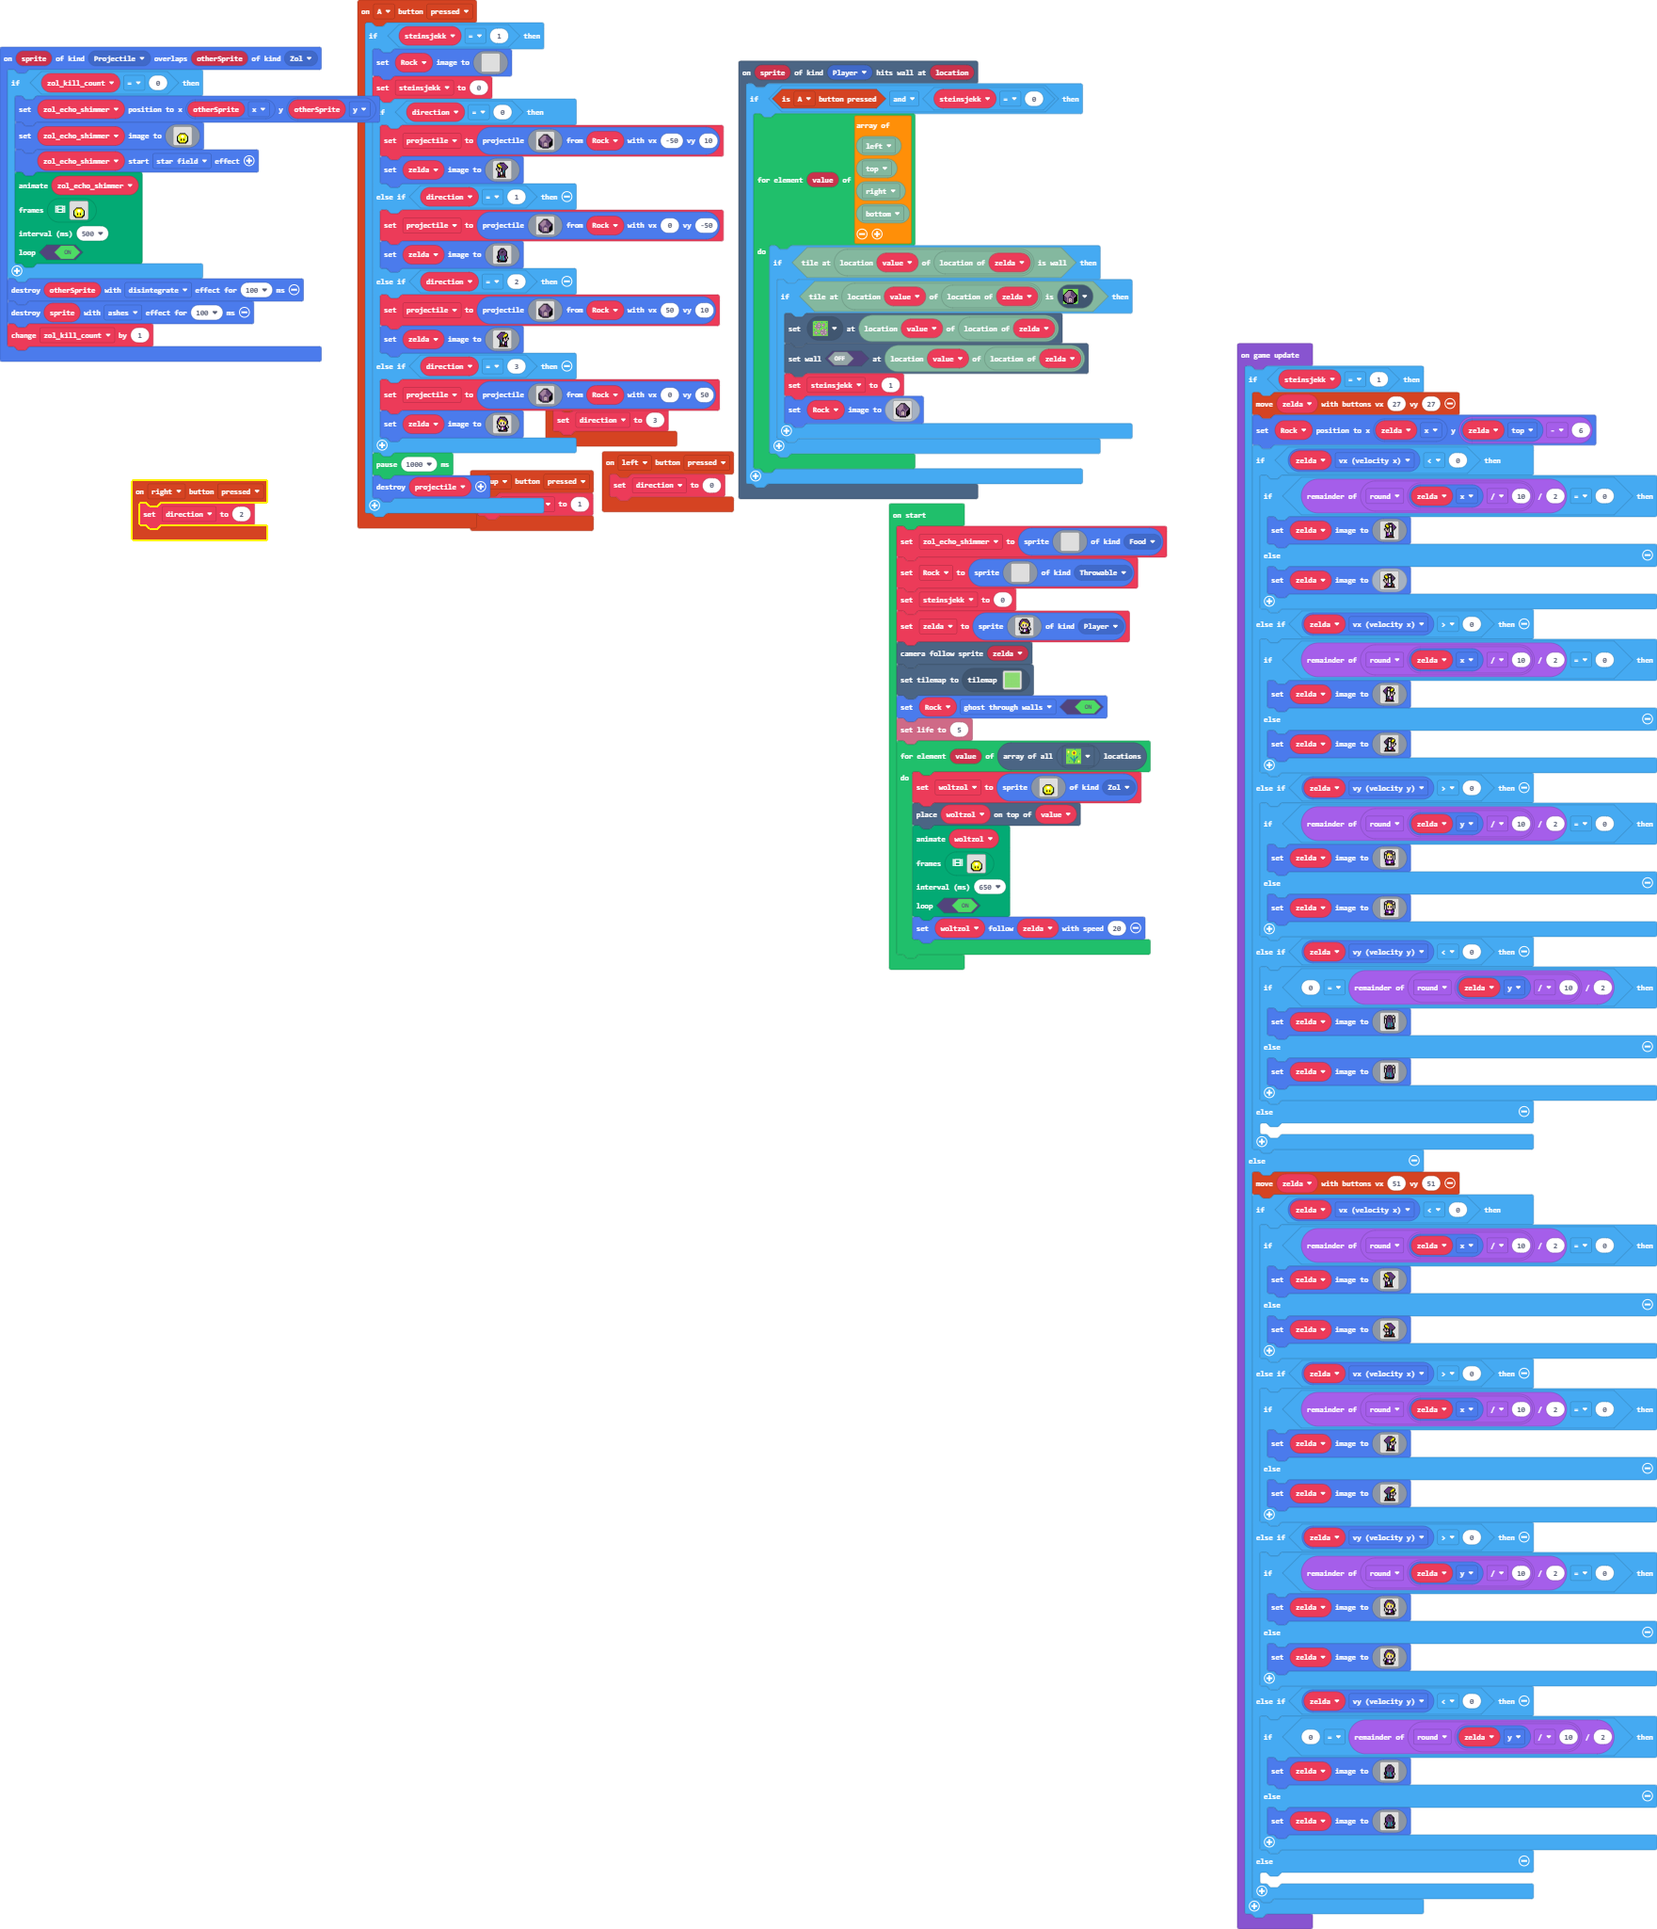
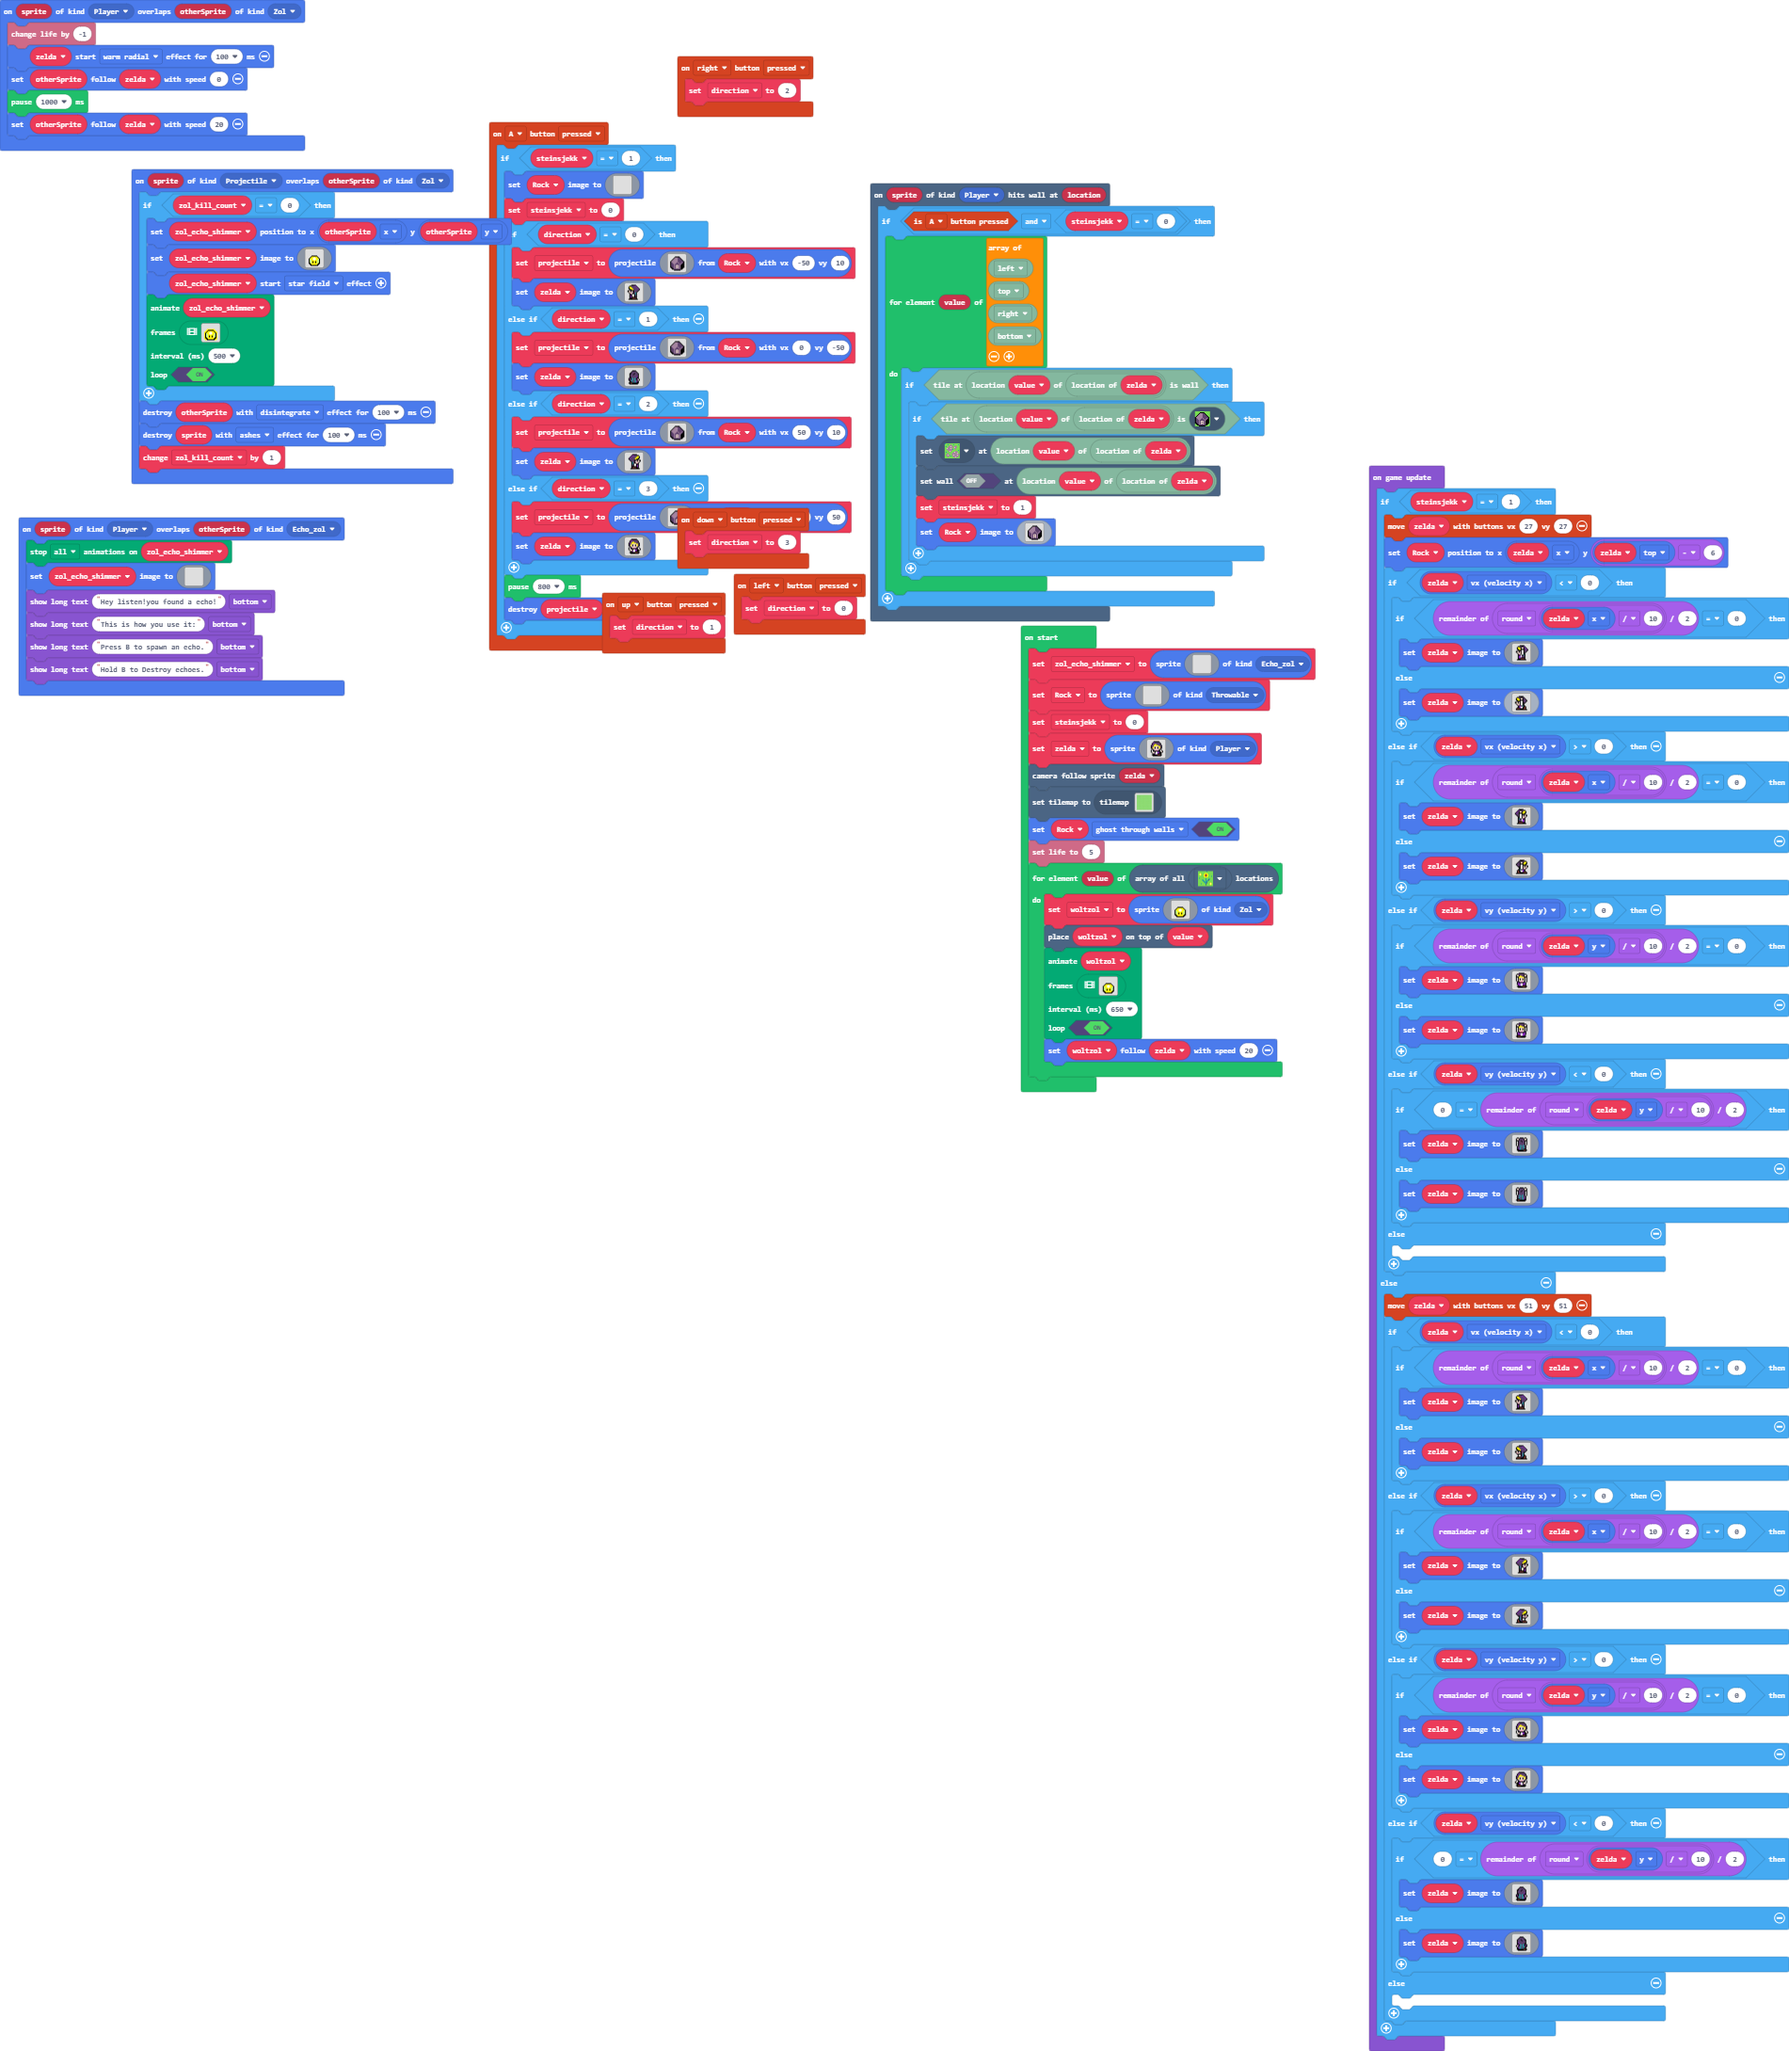
Update main.blocks, main.ts, images.g.jres, images.g.ts

diff --git a/images.g.ts b/images.g.ts
@@ -326,6 +326,25 @@ namespace myImages {
 . . . f f c c c c c c c f f . . 
 . . . . . f f f f f f f . . . . 
 `;
+            case "image17":
+            case "Henry_the_hermit":return img`
+7 7 7 7 7 7 6 7 7 7 7 7 7 7 7 7 
+7 7 7 7 7 7 7 7 7 7 6 7 7 7 7 7 
+7 6 7 7 7 7 7 7 7 7 7 7 7 7 7 7 
+7 7 7 7 7 f f f f f 7 7 7 7 6 7 
+7 7 7 f f f d d d f f f 7 7 7 7 
+7 7 f f f d d d d d f f f 7 7 7 
+7 f f f d f f f f f d f f f 7 7 
+f f f d f 4 4 4 4 4 f d f f f 7 
+f f d 4 f 4 4 4 4 4 f e d f f 7 
+f d 4 4 f 4 1 4 1 4 f 4 4 f f 7 
+f 4 4 4 f 4 1 4 1 4 f 4 4 e f 7 
+f 4 f 4 4 f 4 4 4 f 4 4 f e f 7 
+f f f 4 4 4 f f f 4 4 e f f f 7 
+7 f f f 4 4 f f f 4 e f f f 7 7 
+7 7 7 7 4 4 7 7 7 4 e 7 7 7 7 7 
+6 7 7 7 7 7 7 7 7 7 7 7 7 7 6 7 
+`;
         }
         return null;
     })
@@ -374,69 +393,137 @@ namespace myImages {
 . . . . . . . . . . . . . . . . 
 . . . . . . . . . . . . . . . . 
 . . . . . . . . . . . . . . . . 
-. . . . . . . . . . . . . . . . 
-. . . . . f f f f f f . . . . . 
-. . . . f 5 5 5 5 5 5 f . . . . 
-. . . f 5 5 5 1 1 5 5 5 f . . . 
-. . f 5 5 5 1 1 1 1 5 5 5 f . . 
-. . f 9 5 5 5 1 1 5 5 5 9 f . . 
-. . f 5 9 5 5 5 5 5 5 9 5 f . . 
-. . f 9 5 5 f 5 5 f 5 5 9 f . . 
-. . f 5 9 5 f 5 5 f 5 9 5 f . . 
-. . f f 5 5 5 5 5 5 5 5 f f . . 
-. . . f f 5 5 5 5 5 5 f f . . . 
-. . . . f f f f f f f f . . . . 
+. . . . 5 5 5 5 5 5 5 5 . . . . 
+. . . 5 5 f f f f f f 5 5 . . . 
+. . 5 5 f 5 5 5 5 5 5 f 5 5 . . 
+. 5 5 f 5 5 5 1 1 5 5 5 f 5 5 . 
+. 5 f 5 5 5 1 1 1 1 5 5 5 f 5 . 
+. 5 f 9 5 5 5 1 1 5 5 5 9 f 5 . 
+. 5 f 5 9 5 5 5 5 5 5 9 5 f 5 . 
+. 5 f 9 5 5 f 5 5 f 5 5 9 f 5 . 
+. 5 f 5 9 5 f 5 5 f 5 9 5 f 5 . 
+. 5 f f 5 5 5 5 5 5 5 5 f f 5 . 
+. 5 5 f f 5 5 5 5 5 5 f f 5 5 . 
+. . 5 5 f f f f f f f f 5 5 . . 
 `, img`
 . . . . . . . . . . . . . . . . 
 . . . . . . . . . . . . . . . . 
 . . . . . . . . . . . . . . . . 
+. . . 5 5 5 5 5 5 5 5 5 5 . . . 
+. . 5 5 5 f f f f f f 5 5 5 . . 
+. 5 5 5 f 5 5 5 5 5 5 f 5 5 5 . 
+. 5 5 f 5 5 5 1 1 5 5 5 f 5 5 . 
+. 5 f 5 5 5 1 1 1 1 5 5 5 f 5 . 
+. 5 f 9 5 5 5 1 1 5 5 5 9 f 5 . 
+. 5 f 5 9 5 5 5 5 5 5 9 5 f 5 . 
+. 5 f 9 5 5 f 5 5 f 5 5 9 f 5 . 
+. 5 f 5 9 5 f 5 5 f 5 9 5 f 5 . 
+. 5 f f 5 5 5 5 5 5 5 5 f f 5 . 
+. 5 5 f f 5 5 5 5 5 5 f f 5 5 . 
+. . 5 5 f f f f f f f f 5 5 . . 
+. . . 5 5 5 5 5 5 5 5 5 5 . . . 
+`, img`
 . . . . . . . . . . . . . . . . 
-. . . . . f f f f f f . . . . . 
-. . . . f 5 5 5 5 5 5 f . . . . 
-. . . f 5 5 5 1 1 5 5 5 f . . . 
-. . f 5 5 5 1 1 1 1 5 5 5 f . . 
-. . f 9 5 5 5 1 1 5 5 5 9 f . . 
-. . f 5 9 5 5 5 5 5 5 9 5 f . . 
-. . f 9 5 5 f 5 5 f 5 5 9 f . . 
-. . f 5 9 5 f 5 5 f 5 9 5 f . . 
-. . f f 5 5 5 5 5 5 5 5 f f . . 
-. . . f f 5 5 5 5 5 5 f f . . . 
-. . . . f f f f f f f f . . . . 
+. . . . . . . . . . . . . . . . 
+. . . . 5 5 5 5 5 5 5 5 . . . . 
+. . . 5 5 f f f f f f 5 5 . . . 
+. . 5 5 f 5 5 5 5 5 5 f 5 5 . . 
+. 5 5 f 5 5 5 1 1 5 5 5 f 5 5 . 
+. 5 f 5 5 5 1 1 1 1 5 5 5 f 5 . 
+. 5 f 9 5 5 5 1 1 5 5 5 9 f 5 . 
+. 5 f 5 9 5 5 5 5 5 5 9 5 f 5 . 
+. 5 f 9 5 5 f 5 5 f 5 5 9 f 5 . 
+. 5 f 5 9 5 f 5 5 f 5 9 5 f 5 . 
+. 5 f f 5 5 5 5 5 5 5 5 f f 5 . 
+. 5 5 f f 5 5 5 5 5 5 f f 5 5 . 
+. . 5 5 f f f f f f f f 5 5 . . 
+. . . 5 5 5 5 5 5 5 5 5 5 . . . 
+. . . . . . . . . . . . . . . . 
+`, img`
+. . . . . . . . . . . . . . . . 
+. . . . 5 5 5 5 5 5 5 5 . . . . 
+. . . 5 5 f f f f f f 5 5 . . . 
+. . 5 5 f 5 5 5 5 5 5 f 5 5 . . 
+. 5 5 f 5 5 5 1 1 5 5 5 f 5 5 . 
+. 5 f 5 5 5 1 1 1 1 5 5 5 f 5 . 
+. 5 f 9 5 5 5 1 1 5 5 5 9 f 5 . 
+. 5 f 5 9 5 5 5 5 5 5 9 5 f 5 . 
+. 5 f 9 5 5 f 5 5 f 5 5 9 f 5 . 
+. 5 f 5 9 5 f 5 5 f 5 9 5 f 5 . 
+. 5 f f 5 5 5 5 5 5 5 5 f f 5 . 
+. 5 5 f f 5 5 5 5 5 5 f f 5 5 . 
+. . 5 5 f f f f f f f f 5 5 . . 
+. . . 5 5 5 5 5 5 5 5 5 5 . . . 
+. . . . . . . . . . . . . . . . 
+. . . . . . . . . . . . . . . . 
+`, img`
+. . . . 5 5 5 5 5 5 5 5 . . . . 
+. . . 5 5 f f f f f f 5 5 . . . 
+. . 5 5 f 5 5 5 5 5 5 f 5 5 . . 
+. 5 5 f 5 5 5 1 1 5 5 5 f 5 5 . 
+. 5 f 5 5 5 1 1 1 1 5 5 5 f 5 . 
+. 5 f 9 5 5 5 1 1 5 5 5 9 f 5 . 
+. 5 f 5 9 5 5 5 5 5 5 9 5 f 5 . 
+. 5 f 9 5 5 f 5 5 f 5 5 9 f 5 . 
+. 5 f 5 9 5 f 5 5 f 5 9 5 f 5 . 
+. 5 f f 5 5 5 5 5 5 5 5 f f 5 . 
+. 5 5 f f 5 5 5 5 5 5 f f 5 5 . 
+. . 5 5 f f f f f f f f 5 5 . . 
+. . . 5 5 5 5 5 5 5 5 5 5 . . . 
+. . . . . . . . . . . . . . . . 
+. . . . . . . . . . . . . . . . 
+. . . . . . . . . . . . . . . . 
+`, img`
+. . . . . . . . . . . . . . . . 
+. . . . 5 5 5 5 5 5 5 5 . . . . 
+. . . 5 5 f f f f f f 5 5 . . . 
+. . 5 5 f 5 5 5 5 5 5 f 5 5 . . 
+. 5 5 f 5 5 5 1 1 5 5 5 f 5 5 . 
+. 5 f 5 5 5 1 1 1 1 5 5 5 f 5 . 
+. 5 f 9 5 5 5 1 1 5 5 5 9 f 5 . 
+. 5 f 5 9 5 5 5 5 5 5 9 5 f 5 . 
+. 5 f 9 5 5 f 5 5 f 5 5 9 f 5 . 
+. 5 f 5 9 5 f 5 5 f 5 9 5 f 5 . 
+. 5 f f 5 5 5 5 5 5 5 5 f f 5 . 
+. 5 5 f f 5 5 5 5 5 5 f f 5 5 . 
+. . 5 5 f f f f f f f f 5 5 . . 
+. . . 5 5 5 5 5 5 5 5 5 5 . . . 
+. . . . . . . . . . . . . . . . 
+. . . . . . . . . . . . . . . . 
+`, img`
+. . . . . . . . . . . . . . . . 
+. . . . . . . . . . . . . . . . 
+. . . . 5 5 5 5 5 5 5 5 . . . . 
+. . . 5 5 f f f f f f 5 5 . . . 
+. . 5 5 f 5 5 5 5 5 5 f 5 5 . . 
+. 5 5 f 5 5 5 1 1 5 5 5 f 5 5 . 
+. 5 f 5 5 5 1 1 1 1 5 5 5 f 5 . 
+. 5 f 9 5 5 5 1 1 5 5 5 9 f 5 . 
+. 5 f 5 9 5 5 5 5 5 5 9 5 f 5 . 
+. 5 f 9 5 5 f 5 5 f 5 5 9 f 5 . 
+. 5 f 5 9 5 f 5 5 f 5 9 5 f 5 . 
+. 5 f f 5 5 5 5 5 5 5 5 f f 5 . 
+. 5 5 f f 5 5 5 5 5 5 f f 5 5 . 
+. . 5 5 f f f f f f f f 5 5 . . 
+. . . 5 5 5 5 5 5 5 5 5 5 . . . 
 . . . . . . . . . . . . . . . . 
 `, img`
 . . . . . . . . . . . . . . . . 
 . . . . . . . . . . . . . . . . 
 . . . . . . . . . . . . . . . . 
-. . . . . f f f f f f . . . . . 
-. . . . f 5 5 5 5 5 5 f . . . . 
-. . . f 5 5 5 1 1 5 5 5 f . . . 
-. . f 5 5 5 1 1 1 1 5 5 5 f . . 
-. . f 9 5 5 5 1 1 5 5 5 9 f . . 
-. . f 5 9 5 5 5 5 5 5 9 5 f . . 
-. . f 9 5 5 f 5 5 f 5 5 9 f . . 
-. . f 5 9 5 f 5 5 f 5 9 5 f . . 
-. . f f 5 5 5 5 5 5 5 5 f f . . 
-. . . f f 5 5 5 5 5 5 f f . . . 
-. . . . f f f f f f f f . . . . 
-. . . . . . . . . . . . . . . . 
-. . . . . . . . . . . . . . . . 
-`, img`
-. . . . . . . . . . . . . . . . 
-. . . . . . . . . . . . . . . . 
-. . . . . . . . . . . . . . . . 
-. . . . . . . . . . . . . . . . 
-. . . . . f f f f f f . . . . . 
-. . . . f 5 5 5 5 5 5 f . . . . 
-. . . f 5 5 5 1 1 5 5 5 f . . . 
-. . f 5 5 5 1 1 1 1 5 5 5 f . . 
-. . f 9 5 5 5 1 1 5 5 5 9 f . . 
-. . f 5 9 5 5 5 5 5 5 9 5 f . . 
-. . f 9 5 5 f 5 5 f 5 5 9 f . . 
-. . f 5 9 5 f 5 5 f 5 9 5 f . . 
-. . f f 5 5 5 5 5 5 5 5 f f . . 
-. . . f f 5 5 5 5 5 5 f f . . . 
-. . . . f f f f f f f f . . . . 
-. . . . . . . . . . . . . . . . 
+. . . . 5 5 5 5 5 5 5 5 . . . . 
+. . . 5 5 f f f f f f 5 5 . . . 
+. . 5 5 f 5 5 5 5 5 5 f 5 5 . . 
+. 5 5 f 5 5 5 1 1 5 5 5 f 5 5 . 
+. 5 f 5 5 5 1 1 1 1 5 5 5 f 5 . 
+. 5 f 9 5 5 5 1 1 5 5 5 9 f 5 . 
+. 5 f 5 9 5 5 5 5 5 5 9 5 f 5 . 
+. 5 f 9 5 5 f 5 5 f 5 5 9 f 5 . 
+. 5 f 5 9 5 f 5 5 f 5 9 5 f 5 . 
+. 5 f f 5 5 5 5 5 5 5 5 f f 5 . 
+. 5 5 f f 5 5 5 5 5 5 f f 5 5 . 
+. . 5 5 f f f f f f f f 5 5 . . 
+. . . 5 5 5 5 5 5 5 5 5 5 . . . 
 `];
         }
         return null;

diff --git a/main.ts b/main.ts
@@ -1,6 +1,7 @@
 namespace SpriteKind {
     export const Zol = SpriteKind.create()
     export const Throwable = SpriteKind.create()
+    export const Echo_zol = SpriteKind.create()
 }
 scene.onHitWall(SpriteKind.Player, function (sprite, location) {
     if (controller.A.isPressed() && steinsjekk == 0) {
@@ -23,6 +24,31 @@ scene.onHitWall(SpriteKind.Player, function (sprite, location) {
 })
 controller.up.onEvent(ControllerButtonEvent.Pressed, function () {
     direction = 1
+})
+sprites.onOverlap(SpriteKind.Player, SpriteKind.Echo_zol, function (sprite, otherSprite) {
+    animation.stopAnimation(animation.AnimationTypes.All, zol_echo_shimmer)
+    zol_echo_shimmer.setImage(img`
+        . . . . . . . . . . . . . . . . 
+        . . . . . . . . . . . . . . . . 
+        . . . . . . . . . . . . . . . . 
+        . . . . . . . . . . . . . . . . 
+        . . . . . . . . . . . . . . . . 
+        . . . . . . . . . . . . . . . . 
+        . . . . . . . . . . . . . . . . 
+        . . . . . . . . . . . . . . . . 
+        . . . . . . . . . . . . . . . . 
+        . . . . . . . . . . . . . . . . 
+        . . . . . . . . . . . . . . . . 
+        . . . . . . . . . . . . . . . . 
+        . . . . . . . . . . . . . . . . 
+        . . . . . . . . . . . . . . . . 
+        . . . . . . . . . . . . . . . . 
+        . . . . . . . . . . . . . . . . 
+        `)
+    game.showLongText("Hey listen!you found a echo!", DialogLayout.Bottom)
+    game.showLongText("This is how you use it:", DialogLayout.Bottom)
+    game.showLongText("Press B to spawn an echo.", DialogLayout.Bottom)
+    game.showLongText("Hold B to Destroy echoes.", DialogLayout.Bottom)
 })
 controller.A.onEvent(ControllerButtonEvent.Pressed, function () {
     if (steinsjekk == 1) {
@@ -58,9 +84,16 @@ controller.A.onEvent(ControllerButtonEvent.Pressed, function () {
             projectile = sprites.createProjectileFromSprite(assets.image`carry_rock`, Rock, 0, 50)
             zelda.setImage(assets.image`Zelda_front`)
         }
-        pause(1000)
+        pause(800)
         sprites.destroy(projectile)
     }
+})
+sprites.onOverlap(SpriteKind.Player, SpriteKind.Zol, function (sprite, otherSprite) {
+    info.changeLifeBy(-1)
+    zelda.startEffect(effects.warmRadial, 100)
+    otherSprite.follow(zelda, 0)
+    pause(1000)
+    otherSprite.follow(zelda, 20)
 })
 controller.left.onEvent(ControllerButtonEvent.Pressed, function () {
     direction = 0
@@ -129,7 +162,7 @@ zol_echo_shimmer = sprites.create(img`
     . . . . . . . . . . . . . . . . 
     . . . . . . . . . . . . . . . . 
     . . . . . . . . . . . . . . . . 
-    `, SpriteKind.Food)
+    `, SpriteKind.Echo_zol)
 Rock = sprites.create(img`
     . . . . . . . . . . . . . . . . 
     . . . . . . . . . . . . . . . . 
